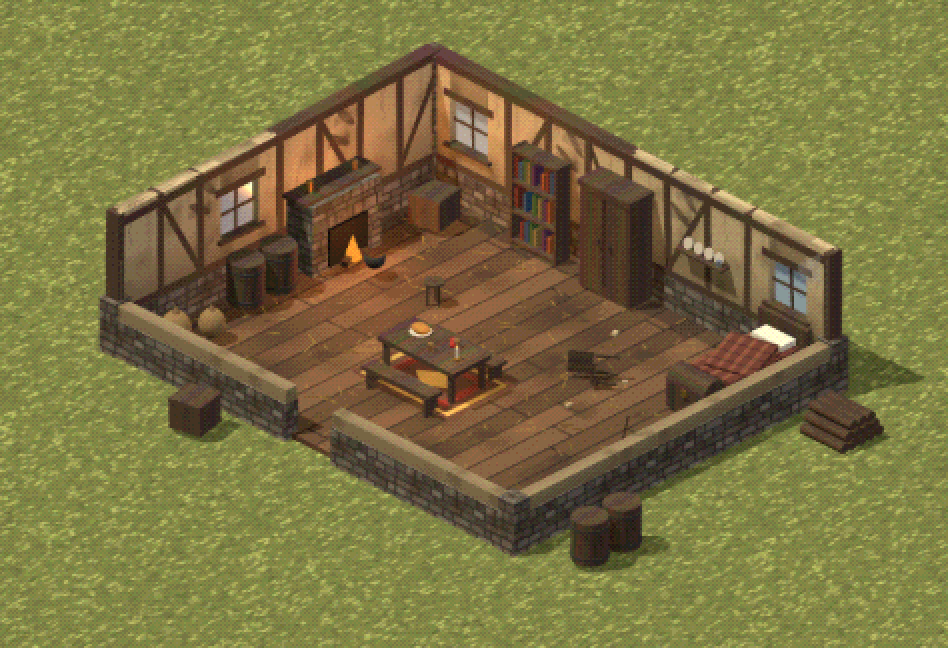
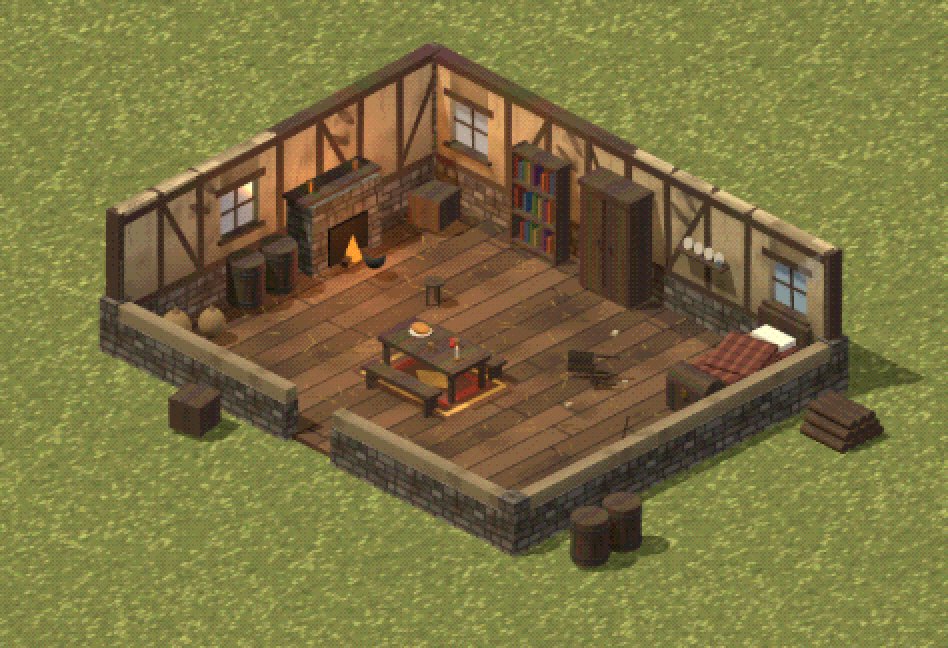
Haus-Baukasten: neues Reetdach, Dachform Sattel- oder Walmdach
- Dächer aus gekrümmten, leicht durchhängenden Flächen mit sichtbarer
  Dicke an der Traufe (bisher flache Platten mit vorstehender Kante)
- Reet: etwa 45° steil, 0,34 m dick, gewölbt, Firstwulst und Grate,
  neue Halm- und Traufkanten-Textur; standardmäßig als Walmdach
- Neue Auswahl „Dachform“ (Satteldach mit Giebeln, Walmdach)
- Beispielhaus werkstatt/haeuser/reetkate.json
- Test deckt jetzt alle 36 Kombinationen aus Wand, Dach, First und
  Dachform ab; Grafik Rev 03

Spiel-Revision bleibt 108, index.html ist unverändert.

Claude-Session: https://claude.ai/code/session_011Cr8ACq9pCHb3UZtRNfQtu

diff --git a/werkstatt/modelle/hausbau.js b/werkstatt/modelle/hausbau.js
@@ -53,8 +53,13 @@ function texturen(v){const key=Math.round(v*4);if(CACHE[key])return CACHE[key];c
   schindeln:tex(256,256,(g,w,h)=>{g.fillStyle='#2a1c12';g.fillRect(0,0,w,h);const rh=18;for(let r=0;r*rh<h;r++){let x=(r%2)*10-10;while(x<w){const sw=14+rnd()*10;
     if(rnd()<.06*V){x+=sw;continue;}g.fillStyle=sh(rnd()<.2?'#6a5038':'#5a4430',.6+rnd()*.5);g.fillRect(x+1,r*rh+(rnd()-.5)*2*V,sw-2,rh-2);g.fillStyle='rgba(0,0,0,.25)';g.fillRect(x+1,r*rh+rh-5,sw-2,3);x+=sw;}}
     moss(g,w,h,35*V);grime(g,w,h,25*V,.4);}),
-  reet:tex(256,256,(g,w,h)=>{g.fillStyle='#6a5a36';g.fillRect(0,0,w,h);for(let i=0;i<2600;i++){g.strokeStyle=sh(rnd()<.5?'#a08a52':'#8a7440',.6+rnd()*.5);g.lineWidth=1+rnd();const x=rnd()*w,y=rnd()*h;g.beginPath();g.moveTo(x,y);g.lineTo(x+(rnd()-.5)*3,y+10+rnd()*14);g.stroke();}
-    for(let r=0;r<h;r+=32){g.fillStyle='rgba(30,22,10,.35)';g.fillRect(0,r,w,3);}moss(g,w,h,40*V);grime(g,w,h,30*V,.5);}),
+  reet:tex(256,256,(g,w,h)=>{g.fillStyle=V<.4?'#8a7444':'#6a5c3e';g.fillRect(0,0,w,h);
+    for(let i=0;i<5200;i++){const x=rnd()*w,y=rnd()*h,l=8+rnd()*22,c=rnd();g.strokeStyle=sh(c<.4?'#b49a5a':c<.75?'#9a8250':'#6e5e3c',.65+rnd()*.5-.25*V);g.lineWidth=.8+rnd()*.9;
+      g.beginPath();g.moveTo(x,y);g.lineTo(x+(rnd()-.5)*2.5,y-l);g.stroke();}
+    for(let i=0;i<40;i++){const x=rnd()*w,y=rnd()*h,gr=g.createRadialGradient(x,y,0,x,y,20+rnd()*30);gr.addColorStop(0,`rgba(${rnd()<.5?40:90},${rnd()<.5?34:80},20,.18)`);gr.addColorStop(1,'rgba(0,0,0,0)');g.fillStyle=gr;g.fillRect(x-50,y-50,100,100);}
+    moss(g,w,h,40*V,1);grime(g,w,h,25*V,.35);}),
+  reetRand:tex(128,64,(g,w,h)=>{g.fillStyle='#4a3e26';g.fillRect(0,0,w,h);for(let i=0;i<1400;i++){g.fillStyle=sh(rnd()<.5?'#a08a52':'#7a6840',.6+rnd()*.5-.2*V);g.beginPath();g.arc(rnd()*w,rnd()*h,.8+rnd()*1.2,0,7);g.fill();}
+    const gr=g.createLinearGradient(0,0,0,h);gr.addColorStop(0,'rgba(0,0,0,0)');gr.addColorStop(1,'rgba(0,0,0,.45)');g.fillStyle=gr;g.fillRect(0,0,w,h);}),
   stoff:tex(64,64,(g,w,h)=>{g.fillStyle='#5e3028';g.fillRect(0,0,w,h);g.fillStyle='#7a4a34';for(let i=0;i<w;i+=16)g.fillRect(i,0,6,h);g.fillStyle='rgba(0,0,0,.2)';for(let j=0;j<h;j+=16)g.fillRect(0,j,w,4);}),
   teppich:tex(128,128,(g,w,h)=>{g.fillStyle='#5c3a2a';g.fillRect(0,0,w,h);g.strokeStyle='#c8a050';g.lineWidth=6;g.strokeRect(10,10,w-20,h-20);g.strokeStyle='#8a3024';g.lineWidth=10;g.strokeRect(26,26,w-52,h-52);g.fillStyle='#c8a050';g.beginPath();g.moveTo(w/2,40);g.lineTo(w-40,h/2);g.lineTo(w/2,h-40);g.lineTo(40,h/2);g.fill();grime(g,w,h,20*V,.5);}),
   wiese:tex(256,256,(g,w,h)=>{g.fillStyle='#646c3a';g.fillRect(0,0,w,h);for(let i=0;i<3000;i++){g.fillStyle=sh(rnd()<.5?'#5c6a30':'#8a9450',.8+rnd()*.4);g.fillRect(rnd()*w,rnd()*h,2,3+rnd()*4);}})};
@@ -117,24 +122,53 @@ function Bau(spec,innen,drehung=0){
     if(typ==='holz')box(.3,h,.3,mHolz,x,h/2,z);else uv(box(.42,h,.42,mStein,x,h/2,z),[.3,h/2.3]);});
   uv(box(HX,.12,HZ,M({map:tx.dielen}),HX/2,.06,HZ/2),[B/2,D/2]);
 
-  // Dach (First entlang x oder z), Giebel, Schornstein
+  // Dach (First entlang x oder z): Sattel- oder Walmdach aus gekrümmten Flächen mit sichtbarer Dicke an der Traufe;
+  // Reet: dick, weich gerundet, Firstwulst, standardmäßig als Walmdach. Giebel nur beim Satteldach.
   const kamin=(spec.einrichtung||[]).find(e=>e.art==='kamin'&&e.x>=0&&e.x<B&&e.z>=0&&e.z<D);
   if(!innen){const g=new THREE.Group();haus.add(g);const lx=spec.first==='z'?HZ:HX,sp=spec.first==='z'?HX:HZ;g.position.set(HX/2,WH,HZ/2);if(spec.first==='z')g.rotation.y=PI/2;
     const art=['schiefer','reet','schindeln'].includes(spec.dach)?spec.dach:'schiefer',reet=art==='reet';
-    const ov=reet?.7:.5,rh=sp*(reet?.45:.31),L=lx+2*ov,half=sp/2+ov,sl=Math.hypot(half,rh),dk=reet?.4:.14;
-    for(const s of[-1,1]){const geo=new THREE.BoxGeometry(L,dk,sl,30,1,14),pa=geo.attributes.position;
-      for(let i=0;i<pa.count;i++){const u=pa.getX(i)/L+.5,w=pa.getZ(i)/sl+.5;pa.setY(i,pa.getY(i)-(.06+.22*v)*Math.sin(PI*u)*Math.sin(PI*Math.min(1,w*1.2))+(rnd()-.5)*.04*v);}
-      geo.computeVertexNormals();const p=new THREE.Mesh(geo,mt(tx[art],L/3,sl/3,{roughness:reet?1:.7}));p.position.set(0,rh/2+(reet?.1:0),s*half/2);p.rotation.x=s*Math.atan2(rh,half);p.castShadow=p.receiveShadow=true;g.add(p);
-      if(s>0&&v>.5&&!reet){for(const[du,dw,ww,dd,ry]of[[.18,.55,1.3,1.0,.12],[.21,.5,.9,.7,-.2]]){const pt=box(ww,.05,dd,mHolz,lx*du,rh*(1-dw)+.02,half*dw,g);pt.rotation.x=Math.atan2(rh,half);pt.rotation.y=ry;}}}
-    if(!reet){const r=box(L+.1,.22,.3,mHolz,0,rh-.12+(1-v)*.05,0,g);r.rotation.z=.015*v;}else{const r=cyl(.28,.28,L,mt(tx.reet,L/3,1,{roughness:1}),0,rh+.12,0,g,10);r.rotation.z=PI/2;}
-    const mG=typ==='fachwerk'?mPutz:typ==='holz'?mHolz:mStein;
-    for(const x of[-lx/2,lx/2]){const shp=new THREE.Shape();shp.moveTo(-sp/2,0);shp.lineTo(sp/2,0);shp.lineTo(0,rh);shp.lineTo(-sp/2,0);
-      const gm=new THREE.Mesh(new THREE.ShapeGeometry(shp),mG);gm.position.set(x+(x>0?.001:-.001),0,0);gm.rotation.y=x>0?PI/2:-PI/2;gm.castShadow=true;g.add(gm);
-      if(typ==='fachwerk'){const b1=box(.14,.14,Math.hypot(sp/2,rh)+.2,mHolz,x,rh/2,-sp/4,g);b1.rotation.x=-Math.atan2(rh,sp/2);
-        const b2=box(.14,.14,Math.hypot(sp/2,rh)+.2,mHolz,x,rh/2,sp/4,g);b2.rotation.x=Math.atan2(rh,sp/2);box(.14,rh,.14,mHolz,x,rh/2,0,g);}}
+    const walm=(spec.dachform||(reet?'walm':'sattel'))==='walm';
+    const k=reet?1.0:.62,ov=reet?.55:.5,ovG=walm?ov:(reet?.35:.4),dick=reet?.34:.12,rh=sp/2*k,ye=-ov*k,ex=lx/2+ovG,ez=sp/2+ov,rx=walm?Math.max(0,ex-ez):ex;
+    const mDach=M({map:tx[art],roughness:reet?1:.7}),mRand=reet?M({map:tx.reetRand,roughness:1}):mHolz;
+    // Fläche aus Traufkante A–B und Firstkante D–C (Dreieck, wenn D = C), unterteilt, durchhängend und uneben
+    const flaechen=[];
+    function flaeche(A,Bp,C,Dp,frei){const N=18,Mz=10,pos=[],uvs=[],idx=[],nrm=new THREE.Vector3(),e1=new THREE.Vector3(),e2=new THREE.Vector3();
+      e1.subVectors(Bp,A);e2.subVectors(Dp,A);nrm.crossVectors(e1,e2).normalize();if(nrm.y<0)nrm.negate();
+      const lenE=A.distanceTo(Bp),lenS=A.distanceTo(new THREE.Vector3().lerpVectors(Dp,C,.5).setY(Dp.y))||1,slope=Math.hypot(rh-ye,ez);
+      const P=(s,w)=>{const p=new THREE.Vector3().lerpVectors(A,Bp,s),q=new THREE.Vector3().lerpVectors(Dp,C,s);p.lerp(q,w);
+        let d=-(.05+.2*v)*Math.sin(PI*s)*Math.sin(PI*Math.min(1,w*1.15))+(rnd()-.5)*(reet?.08:.035)*(.3+v);
+        if(reet)d+=.16*Math.sin(PI*w);return p.addScaledVector(nrm,d);};
+      const grid=[];for(let j=0;j<=Mz;j++){grid.push([]);for(let i=0;i<=N;i++){const p=P(i/N,j/Mz);grid[j].push(p);pos.push(p.x,p.y,p.z);
+        const breite=lenE*(1-j/Mz)+A.distanceTo(Bp)*0+(Dp.distanceTo(C))*(j/Mz);uvs.push(((i/N)-.5)*breite/3,(j/Mz)*slope/3);}}
+      for(let j=0;j<Mz;j++)for(let i=0;i<N;i++){const a=j*(N+1)+i,b2=a+1,c=a+N+1,d=c+1;idx.push(a,b2,d,a,d,c);}
+      const geo=new THREE.BufferGeometry();geo.setAttribute('position',new THREE.Float32BufferAttribute(pos,3));geo.setAttribute('uv',new THREE.Float32BufferAttribute(uvs,2));geo.setIndex(idx);geo.computeVertexNormals();
+      const m=new THREE.Mesh(geo,mDach);m.castShadow=m.receiveShadow=true;g.add(m);
+      // sichtbare Dicke: Band unter der Traufkante (und unter freien Ortgängen beim Satteldach)
+      const band=kante=>{const bp=[],bu=[],bi=[];kante.forEach((p,i)=>{const q=p.clone();q.y-=dick;const ins=new THREE.Vector3(-p.x,0,-p.z).normalize().multiplyScalar(dick*.35);q.add(ins);
+          bp.push(p.x,p.y,p.z,q.x,q.y,q.z);bu.push(i/3,0,i/3,dick*2);if(i){const o=(i-1)*2;bi.push(o,o+1,o+3,o,o+3,o+2);}});
+        const bg=new THREE.BufferGeometry();bg.setAttribute('position',new THREE.Float32BufferAttribute(bp,3));bg.setAttribute('uv',new THREE.Float32BufferAttribute(bu,2));bg.setIndex(bi);bg.computeVertexNormals();
+        const bm=new THREE.Mesh(bg,mRand);bm.material.side=THREE.DoubleSide;bm.castShadow=true;g.add(bm);};
+      band(grid[0]);if(frei){band(grid.map(r=>r[0]));band(grid.map(r=>r[N]));}
+      flaechen.push({P,nrm});}
+    const V=(x,y,z)=>new THREE.Vector3(x,y,z);
+    flaeche(V(-ex,ye,ez),V(ex,ye,ez),V(rx,rh,0),V(-rx,rh,0),!walm);
+    flaeche(V(ex,ye,-ez),V(-ex,ye,-ez),V(-rx,rh,0),V(rx,rh,0),!walm);
+    if(walm){flaeche(V(ex,ye,ez),V(ex,ye,-ez),V(rx,rh,0),V(rx,rh,0),false);flaeche(V(-ex,ye,-ez),V(-ex,ye,ez),V(-rx,rh,0),V(-rx,rh,0),false);}
+    // First und Grate
+    const linie=(p,q,r,m)=>{const l=p.distanceTo(q);if(l<.05)return;const c=cyl(r,r,l,m,0,0,0,g,10);c.position.lerpVectors(p,q,.5);c.quaternion.setFromUnitVectors(V(0,1,0),q.clone().sub(p).normalize());};
+    const mFirst=reet?M({map:tx.reet,roughness:1,color:0xb0a890}):mHolz,rF=reet?.24:.1;
+    const fe=walm?0:.2;linie(V(-rx+fe,rh+.04,0),V(rx-fe,rh+.04,0),rF,mFirst);
+    if(walm)for(const sx of[-1,1])for(const sz of[-1,1])linie(V(sx*rx,rh-.02,0),V(sx*ex,ye+.02,sz*ez),reet?.11:.07,mFirst);
+    if(!reet&&v>.5){const F=flaechen[0];for(const[s0,w0,s1,w1]of[[.6,.35,.7,.55],[.64,.3,.72,.44]]){const pg=new THREE.BufferGeometry(),pp=[];
+      for(const[s,w]of[[s0,w0],[s1,w0],[s1,w1],[s0,w0],[s1,w1],[s0,w1]]){const p=F.P(s,w).addScaledVector(F.nrm,.05);pp.push(p.x,p.y,p.z);}
+      pg.setAttribute('position',new THREE.Float32BufferAttribute(pp,3));pg.computeVertexNormals();const pm=new THREE.Mesh(pg,mHolz);pm.material.side=THREE.DoubleSide;g.add(pm);}}
+    if(!walm){const mG=typ==='fachwerk'?mPutz:typ==='holz'?mHolz:mStein;
+      for(const x of[-lx/2,lx/2]){const shp=new THREE.Shape();shp.moveTo(-sp/2,0);shp.lineTo(sp/2,0);shp.lineTo(0,rh);shp.lineTo(-sp/2,0);
+        const gm=new THREE.Mesh(new THREE.ShapeGeometry(shp),mG);gm.position.set(x+(x>0?.001:-.001),0,0);gm.rotation.y=x>0?PI/2:-PI/2;gm.castShadow=true;g.add(gm);
+        if(typ==='fachwerk'){const b1=box(.14,.14,Math.hypot(sp/2,rh)+.2,mHolz,x,rh/2,-sp/4,g);b1.rotation.x=-Math.atan2(rh,sp/2);
+          const b2=box(.14,.14,Math.hypot(sp/2,rh)+.2,mHolz,x,rh/2,sp/4,g);b2.rotation.x=Math.atan2(rh,sp/2);box(.14,rh,.14,mHolz,x,rh/2,0,g);}}}
     if(spec.schornstein){let cx=1.2,cz=1.4;if(kamin){const d=kamin.dreh&3,o=T/2-.55;cx=(kamin.x+.5)*T+(d===1?-o:d===3?o:0);cz=(kamin.z+.5)*T+(d===0?-o:d===2?o:0);}
       const hc=rh+1.4;uv(box(.8,hc,.8,mStein,cx,WH+hc/2,cz),[.5,hc/2]);box(.95,.15,.95,mStein,cx,WH+hc,cz).rotation.z=.06*v;if(v>.5)box(.3,.25,.3,mStein,cx+.15,WH+hc+.15,cz-.15).rotation.y=.4;}}
-
   // Einrichtung: jedes Teil im eigenen Feld, Rückseite bei dreh 0 zur hinteren Wand (−z)
   const B2=T/2,hinten=-B2+WT/2+.02;
   const TEILE={
@@ -182,7 +216,7 @@ function Bau(spec,innen,drehung=0){
     for(let i=0;i<180*v;i++){const s=rnd(),a=.2+rnd()*.35;let x,z;if(s<.3){x=rnd()*HX;z=HZ+a;}else if(s<.6){x=HX+a;z=rnd()*HZ;}else if(s<.8){x=-a;z=rnd()*HZ;}else{x=rnd()*HX;z=-a;}
       const c=new THREE.Mesh(new THREE.ConeGeometry(.05+rnd()*.07,.25+rnd()*.45,5),mUnkraut[rnd()<.5?0:1]);c.position.set(x,.15,z);c.rotation.set((rnd()-.5)*.5,0,(rnd()-.5)*.5);c.castShadow=true;haus.add(c);}}
   const wiese=new THREE.Mesh(new THREE.PlaneGeometry(120,120),mt(tx.wiese,18,18,{roughness:1}));wiese.rotation.x=-PI/2;wiese.receiveShadow=true;root.add(wiese);
-  root.userData={HX,HZ,hoehe:innen?WH:WH+(spec.first==='z'?HX:HZ)*.45+1.5};
+  root.userData={HX,HZ,hoehe:innen?WH:WH+(spec.first==='z'?HX:HZ)*.48+1.5};
   return root;}
 
 // ---------- Szene mit Spielkamera (45° seitlich, 30° von oben), Licht wie in der Werkstatt ----------

diff --git a/werkstatt/baukasten.html b/werkstatt/baukasten.html
@@ -45,6 +45,7 @@ input[type=range]{width:100%}
   <label>Tiefe (Felder)</label><div class="zahl"><button data-z="tiefe:-1">−</button><b id="tiefe"></b><button data-z="tiefe:1">+</button></div>
   <label>Wände</label><select id="wand"><option value="fachwerk">Fachwerk auf Bruchstein</option><option value="stein">Bruchstein</option><option value="holz">Holzbohlen</option></select>
   <label>Dachdeckung</label><select id="dach"><option value="schiefer">Schiefer</option><option value="schindeln">Holzschindeln</option><option value="reet">Reet</option></select>
+  <label>Dachform</label><select id="dachform"><option value="sattel">Satteldach (mit Giebeln)</option><option value="walm">Walmdach (rundum geneigt)</option></select>
   <label>First</label><select id="first"><option value="x">entlang der Breite</option><option value="z">entlang der Tiefe</option></select>
   <label>Verwitterung: <span id="vw"></span></label><input id="verwitterung" type="range" min="0" max="1" step="0.25">
   <label class="reihe"><span>Schornstein</span><input id="schornstein" type="checkbox" style="flex:0 0 22px;height:22px"></label>
@@ -125,13 +126,13 @@ try{szene=HB.Szene(ansicht);}catch(e){ansicht.insertAdjacentHTML('afterend','<p 
 function rendere(){if(!szene)return;const r=ansicht.getBoundingClientRect();szene.renderer.setPixelRatio(1);szene.renderer.setSize(Math.max(200,r.width|0),Math.max(200,r.height|0),false);szene.zeige(spec,innen,drehung);}
 function geaendert(){try{localStorage.setItem(SPEICHER+'-zuletzt',JSON.stringify(spec));}catch(e){}felder();zeichnePlan();clearTimeout(warte);warte=setTimeout(rendere,120);}
 function felder(){$('name').value=spec.name||'';$('breite').textContent=spec.breite;$('tiefe').textContent=spec.tiefe;$('wand').value=spec.wand;$('dach').value=spec.dach;
-  $('first').value=spec.first||'x';$('verwitterung').value=spec.verwitterung;$('vw').textContent=['neu','gepflegt','gebraucht','verwittert','verfallen'][Math.round(spec.verwitterung*4)];
+  $('first').value=spec.first||'x';$('dachform').value=spec.dachform||(spec.dach==='reet'?'walm':'sattel');$('verwitterung').value=spec.verwitterung;$('vw').textContent=['neu','gepflegt','gebraucht','verwittert','verfallen'][Math.round(spec.verwitterung*4)];
   $('schornstein').checked=!!spec.schornstein;$('aussen').className=innen?'':'an';$('innen').className=innen?'an':'';
   const l=lies();$('liste').innerHTML='<option value="">Gespeicherte Häuser …</option>'+Object.keys(l).sort().map(n=>`<option>${n.replace(/</g,'&lt;')}</option>`).join('');}
 document.querySelectorAll('[data-z]').forEach(b=>b.onclick=()=>{const[k,d]=b.dataset.z.split(':');spec[k]=Math.max(2,Math.min(9,spec[k]+ +d));
   spec.oeffnungen=spec.oeffnungen.filter(o=>o.feld<((o.seite==='hinten'||o.seite==='vorn')?spec.breite:spec.tiefe));
   spec.einrichtung=spec.einrichtung.filter(e=>e.x<=spec.breite&&e.z<=spec.tiefe);geaendert();});
-['wand','dach','first'].forEach(k=>$(k).onchange=()=>{spec[k]=$(k).value;geaendert();});
+['wand','dach','first','dachform'].forEach(k=>$(k).onchange=()=>{spec[k]=$(k).value;if(k==='dach')delete spec.dachform;geaendert();});
 $('verwitterung').oninput=()=>{spec.verwitterung=+$('verwitterung').value;geaendert();};
 $('schornstein').onchange=()=>{spec.schornstein=$('schornstein').checked;geaendert();};
 $('name').onchange=()=>{spec.name=$('name').value.trim()||'Haus';geaendert();};

diff --git a/tests/grauufer.spec.js b/tests/grauufer.spec.js
@@ -325,19 +325,19 @@ test('Rev 108: Notgrund füllt Lücken, solange der Bodenpuffer nicht alles bede
   expect(fehler).toEqual([]);
 });
 
-test('Werkstatt: Hausbau erzeugt Häuser aus der Beschreibung (alle Wand- und Dacharten)', async ({ page }) => {
+test('Werkstatt: Hausbau erzeugt Häuser aus der Beschreibung (alle Wand-, Dach- und Dachformen)', async ({ page }) => {
   const fehler = []; page.on('pageerror', e => fehler.push(String(e)));
   await page.goto('file://' + path.resolve(__dirname, '..', 'werkstatt', 'baukasten.html'));
   await page.waitForFunction(() => window.Hausbau && window.THREE, null, { timeout: 30000 });
   const r = await page.evaluate(() => {
     const zaehle = g => { let n = 0; g.traverse(o => { if (o.isMesh) n++; }); return n; };
     const ergebnis = [];
-    for (const wand of ['fachwerk', 'stein', 'holz']) for (const dach of ['schiefer', 'schindeln', 'reet']) for (const first of ['x', 'z']) {
-      const spec = Object.assign(JSON.parse(JSON.stringify(Hausbau.BEISPIEL)), { wand, dach, first });
+    for (const wand of ['fachwerk', 'stein', 'holz']) for (const dach of ['schiefer', 'schindeln', 'reet']) for (const first of ['x', 'z']) for (const dachform of ['sattel', 'walm']) {
+      const spec = Object.assign(JSON.parse(JSON.stringify(Hausbau.BEISPIEL)), { wand, dach, first, dachform });
       ergebnis.push(zaehle(Hausbau.Bau(spec, false)) > 100 && zaehle(Hausbau.Bau(spec, true, 2)) > 200);
     }
     return [ergebnis.every(Boolean), ergebnis.length, Object.keys(Hausbau.KATALOG).length];
   });
-  expect(r).toEqual([true, 18, 17]);
+  expect(r).toEqual([true, 36, 17]);
   expect(fehler).toEqual([]);
 });

diff --git a/docs/Grauufer_Grafik_Rev03.md b/docs/Grauufer_Grafik_Rev03.md
@@ -1,6 +1,6 @@
 # Grauufer – Grafik-Werkstatt
 
-**Revision 02**, Stand: Spiel-Rev 108. **Im Spiel** = in der aktuellen Spielversion umgesetzt (aus dem Code übernommen). **Geplant** = noch nicht im Spiel.
+**Revision 03**, Stand: Spiel-Rev 108. **Im Spiel** = in der aktuellen Spielversion umgesetzt (aus dem Code übernommen). **Geplant** = noch nicht im Spiel.
 
 Dieses Dokument beschreibt die neue, vorgerenderte Grafik: Figuren, Häuser, Einrichtung und Gegenstände werden als 3D-Modelle im Code gebaut, mit three.js gerendert und als Bilder ins Spiel übernommen. Die heutige Grafik im Spiel beschreibt Grauufer_Stil_RevXX.md.
 
@@ -49,7 +49,7 @@ Aufruf: `npm run grafik` (benötigt `npm install` für Playwright).
 
 | Bereich | Bedienung |
 |---|---|
-| Haus | Breite und Tiefe 2–9 Felder; Wände: Fachwerk auf Bruchstein, Bruchstein, Holzbohlen; Dachdeckung: Schiefer, Holzschindeln, Reet; First entlang der Breite oder der Tiefe; Verwitterung in 5 Stufen (neu, gepflegt, gebraucht, verwittert, verfallen); Schornstein ein/aus (steht über dem Kamin, falls einer gesetzt ist) |
+| Haus | Breite und Tiefe 2–9 Felder; Wände: Fachwerk auf Bruchstein, Bruchstein, Holzbohlen; Dachdeckung: Schiefer, Holzschindeln, Reet; Dachform: Satteldach (mit Giebeln) oder Walmdach (rundum geneigt), Reet standardmäßig als Walmdach; First entlang der Breite oder der Tiefe; Verwitterung in 5 Stufen (neu, gepflegt, gebraucht, verwittert, verfallen); Schornstein ein/aus (steht über dem Kamin, falls einer gesetzt ist) |
 | Grundriss | von oben, oben = hinten, unten = vorn (zur Kamera); ein Feldrand um das Haus für Dinge im Freien |
 | Fenster/Tür | auf eine Wand tippen schaltet weiter: Wand → Fenster → Tür → kaputtes Fenster → vernageltes Fenster → Wand |
 | Einrichtung | 17 Teile: Bett, Truhe, Schrank, Bücherregal, Kamin, Wandbrett, Waffen an der Wand, Tisch mit Bänken, Fässer, Kiste, Säcke, Hocker, Teppich, Kessel, Stuhl (umgekippt), Besen, Brennholz; Wandteile drehen sich beim Setzen zur nächsten Wand; Werkzeuge „Drehen“ und „Entfernen“ wirken auf das zuletzt gesetzte Teil eines Feldes |
@@ -58,7 +58,9 @@ Aufruf: `npm run grafik` (benötigt `npm install` für Playwright).
 
 **Verwitterung je Stufe:** mehr Schmutz, Laufspuren, abgeplatzter Putz, Risse und Moos auf den Oberflächen; durchhängendes Dach und schiefe Holzteile; ab „gebraucht“ Spinnweben, ab „verwittert“ Putzbrocken, geflicktes Dach und schief hängende Fensterläden; mehr Stroh innen und Unkraut außen.
 
-**Beschreibung eines Hauses (JSON):** `name`, `breite`, `tiefe`, `wand`, `dach`, `first`, `verwitterung` (0–1), `schornstein`, `oeffnungen` (Liste aus `seite` = hinten/vorn/links/rechts, `feld`, `art`), `einrichtung` (Liste aus `art`, `x`, `z`, `dreh` 0–3; 0 = Rückseite zur hinteren Wand). Beispiel: `werkstatt/haeuser/fischerhaus.json`.
+**Dächer:** gekrümmte, leicht durchhängende Flächen mit sichtbarer Dicke an der Traufe. Reet: etwa 45° steil, 0,34 m dick, weich gewölbt, mit Firstwulst und Graten, Halme quer zur Traufe; Schiefer und Schindeln: etwa 32° steil, Holzkante an der Traufe und an den Ortgängen, ab „verwittert“ mit Brettern geflickt.
+
+**Beschreibung eines Hauses (JSON):** `name`, `breite`, `tiefe`, `wand`, `dach`, `dachform` (sattel/walm, optional), `first`, `verwitterung` (0–1), `schornstein`, `oeffnungen` (Liste aus `seite` = hinten/vorn/links/rechts, `feld`, `art`), `einrichtung` (Liste aus `art`, `x`, `z`, `dreh` 0–3; 0 = Rückseite zur hinteren Wand). Beispiele: `werkstatt/haeuser/fischerhaus.json` (Fachwerk, Schiefer-Satteldach), `werkstatt/haeuser/reetkate.json` (Holzbohlen, Reet-Walmdach).
 
 ## 5. Haus wie in Pagan (Probe „Fischerhaus“)
 
